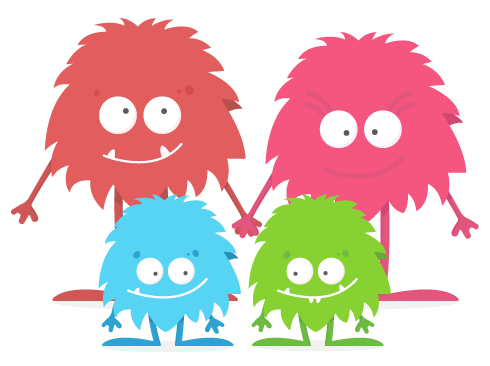
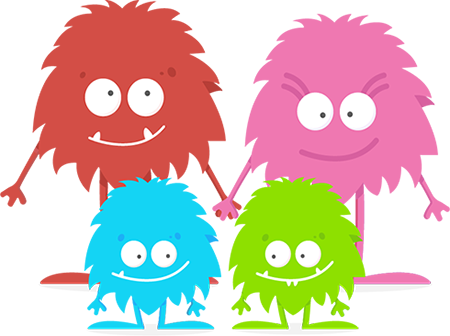
:lipstick: updated UI UserPicker

diff --git a/src/containers/UserPicker.js b/src/containers/UserPicker.js
@@ -14,16 +14,22 @@ const AUTH_LOGIN = { action: `inloggen`, title: `inloggen`, method: `login` };
 const UserPicker = () => (
   <View style={s.container}>
     <View style={s.buttonsContainer}>
-      <TouchableWithoutFeedback onPress={() => Actions.setupScene({ authType: AUTH_LOGIN })}>
-        <Image source={btnProfessional} />
-      </TouchableWithoutFeedback>
-      <TouchableWithoutFeedback>
-        <Image source={btnFamily} />
-      </TouchableWithoutFeedback>
-    </View>
-    <View style={s.charsContainer} onPress={() => Actions.connectionScene}>
-      <Image source={professionalChar} />
-      <Image source={familyChars} />
+      <View style={s.professionalContainer}>
+        <TouchableWithoutFeedback onPress={() => Actions.setupScene({ authType: AUTH_LOGIN })}>
+          <View style={s.professionalInnerContainer}>
+            <Image source={professionalChar} style={s.professionalChar} />
+            <Image source={btnProfessional} style={s.button} />
+          </View>
+        </TouchableWithoutFeedback>
+      </View>
+      <View style={s.familyContainer}>
+        <TouchableWithoutFeedback >
+          <View style={s.familyInnerContainer}>
+            <Image source={familyChars} />
+            <Image source={btnFamily}  style={s.button} />
+          </View>
+        </TouchableWithoutFeedback>
+      </View>
     </View>
   </View>
 );

diff --git a/src/assets/styles/containers/UserPicker.js b/src/assets/styles/containers/UserPicker.js
@@ -1,6 +1,6 @@
 import { StyleSheet } from 'react-native';
 
-import { lightBlue } from 'src/assets/styles/vars';
+import { accentYellow, lightBlue } from 'src/assets/styles/vars';
 
 const sharedContainerRules = {
   flex: 1, justifyContent: `space-around`, flexDirection: `row`, alignItems: `center`,
@@ -9,15 +9,34 @@ const sharedContainerRules = {
 export default StyleSheet.create({
   container: {
     flex: 1,
-    backgroundColor: lightBlue,
   },
   buttonsContainer: {
     ...sharedContainerRules,
-    alignItems: `center`,
-    justifyContent: `space-around`,
+  },
+  professionalContainer: {
+    flex: 1, justifyContent: `flex-end`,
+    minHeight: 768,
+    backgroundColor: lightBlue,
+  },
+  professionalInnerContainer: {
+    flexDirection: `column`, alignItems: `center`, justifyContent: `center`,
+  },
+  professionalChar: {
+    marginBottom: 30,
+  },
+  familyContainer: {
+    flex: 1, justifyContent: `flex-end`,
+    minHeight: 768,
+    backgroundColor: accentYellow,
+  },
+  familyInnerContainer: {
+    flexDirection: `column`, alignItems: `center`, justifyContent: `center`,
   },
   charsContainer: {
     ...sharedContainerRules,
     alignItems: `flex-start`,
+  },
+  button: {
+    marginBottom: 80, marginTop: 80,
   },
 });
